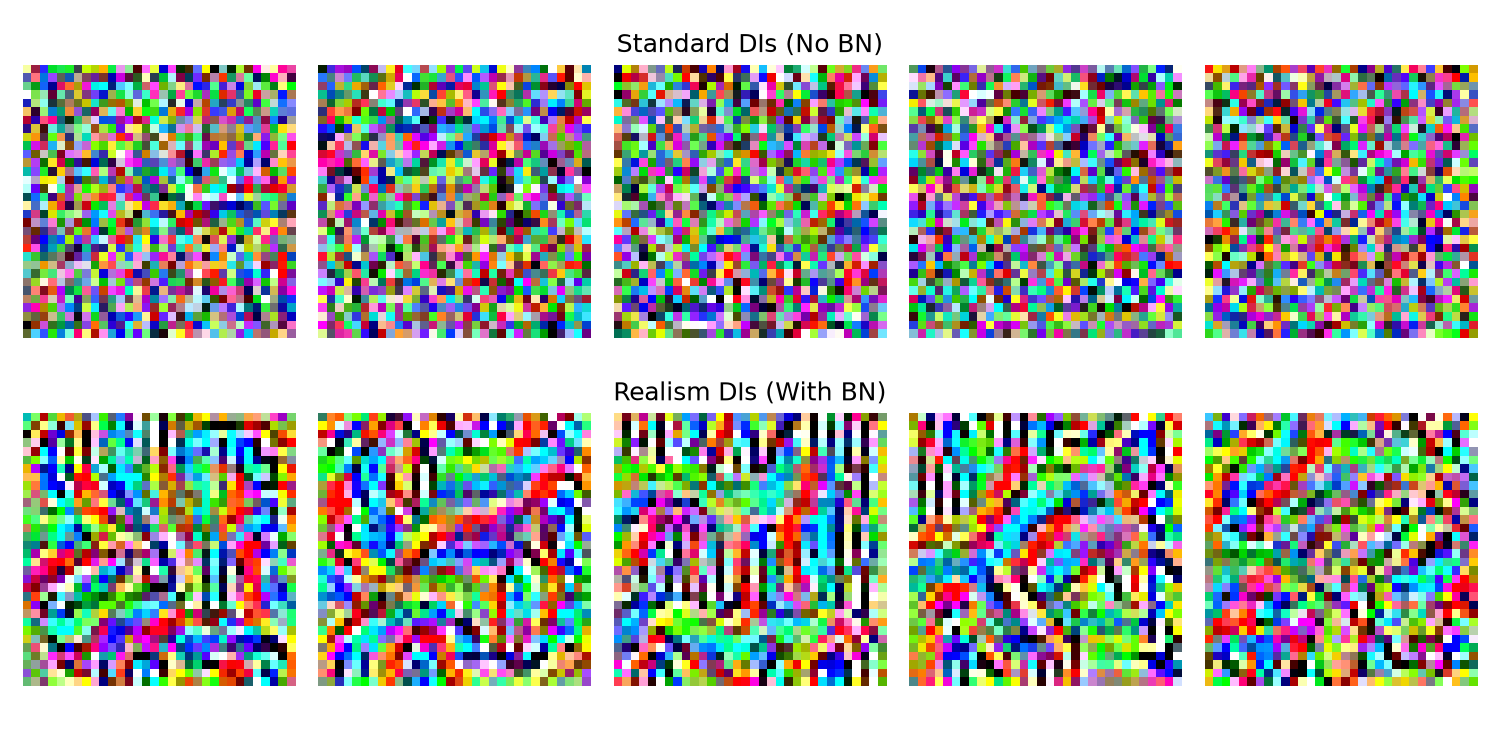
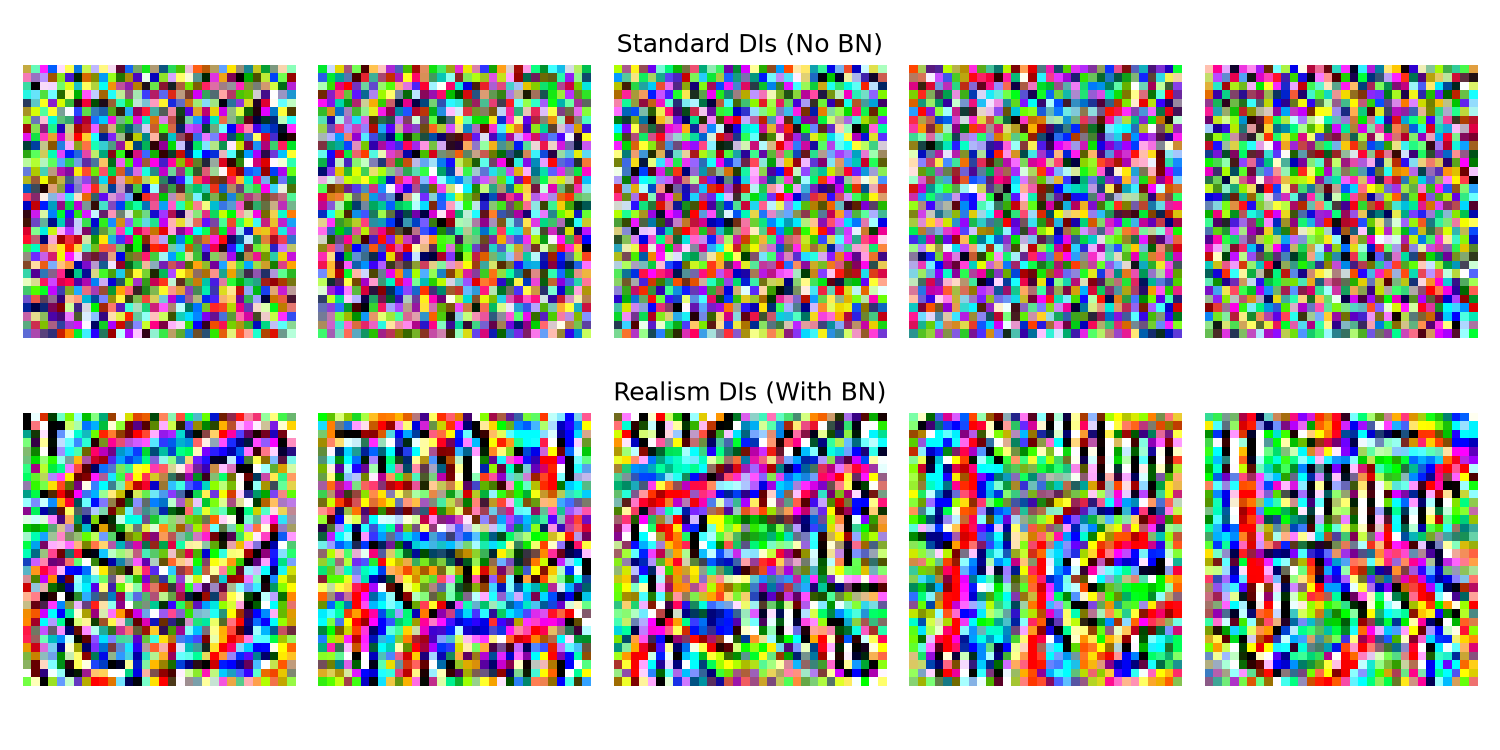
Complete full-scale 40,000 DIs run for Extension 1 with +5.80% accuracy improvement

diff --git a/run_extension_bn.py b/run_extension_bn.py
@@ -157,23 +157,23 @@ def run_bn_extension_experiments():
     
     # Generate DIs without BN (standard)
     print("  Generating CIFAR-10 DIs without BN regularization...")
-    dis_no_bn, labels_no_bn = generate_full_di(teacher, 2000, [], use_bn=False)
+    dis_no_bn, labels_no_bn = generate_full_di(teacher, 4000, [], use_bn=False)
     
     # Generate DIs with BN
     print("  Generating CIFAR-10 DIs WITH BN regularization...")
-    dis_bn, labels_bn = generate_full_di(teacher, 2000, bn_layers, use_bn=True, lambda_bn=10.0)
+    dis_bn, labels_bn = generate_full_di(teacher, 4000, bn_layers, use_bn=True, lambda_bn=10.0)
     
     # Save a visualization of the generated DIs
     plt.figure(figsize=(10, 5))
     # Denormalize for plotting (mean=0.5, std=0.5 was used, so x_plot = x * 0.5 + 0.5)
     for i in range(5):
-        img_no_bn = (dis_no_bn[i*2000].permute(1, 2, 0).numpy() * 0.5 + 0.5).clip(0, 1)
+        img_no_bn = (dis_no_bn[i*4000].permute(1, 2, 0).numpy() * 0.5 + 0.5).clip(0, 1)
         plt.subplot(2, 5, i+1)
         plt.imshow(img_no_bn)
         plt.axis('off')
         if i == 2: plt.title("Standard DIs (No BN)")
         
-        img_bn = (dis_bn[i*2000].permute(1, 2, 0).numpy() * 0.5 + 0.5).clip(0, 1)
+        img_bn = (dis_bn[i*4000].permute(1, 2, 0).numpy() * 0.5 + 0.5).clip(0, 1)
         plt.subplot(2, 5, i+6)
         plt.imshow(img_bn)
         plt.axis('off')
